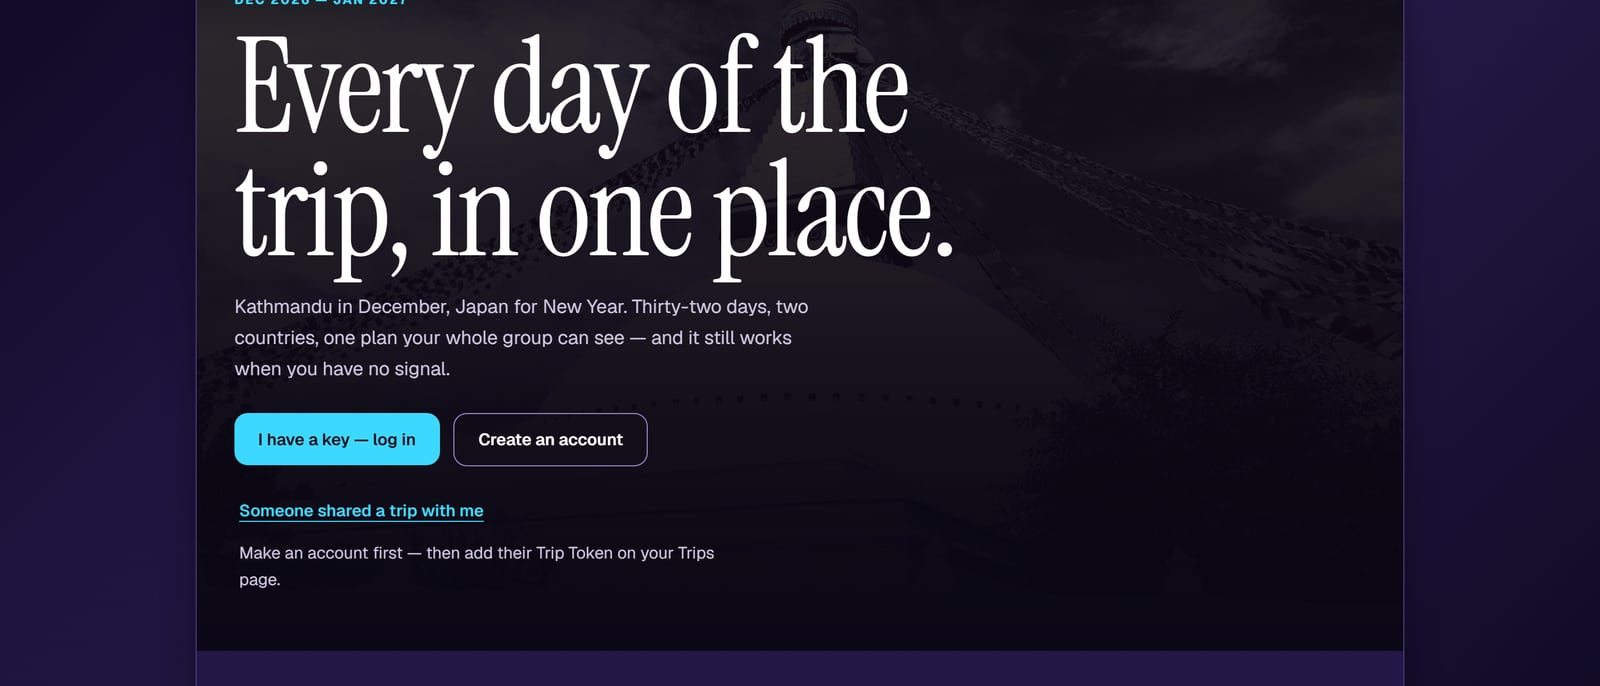
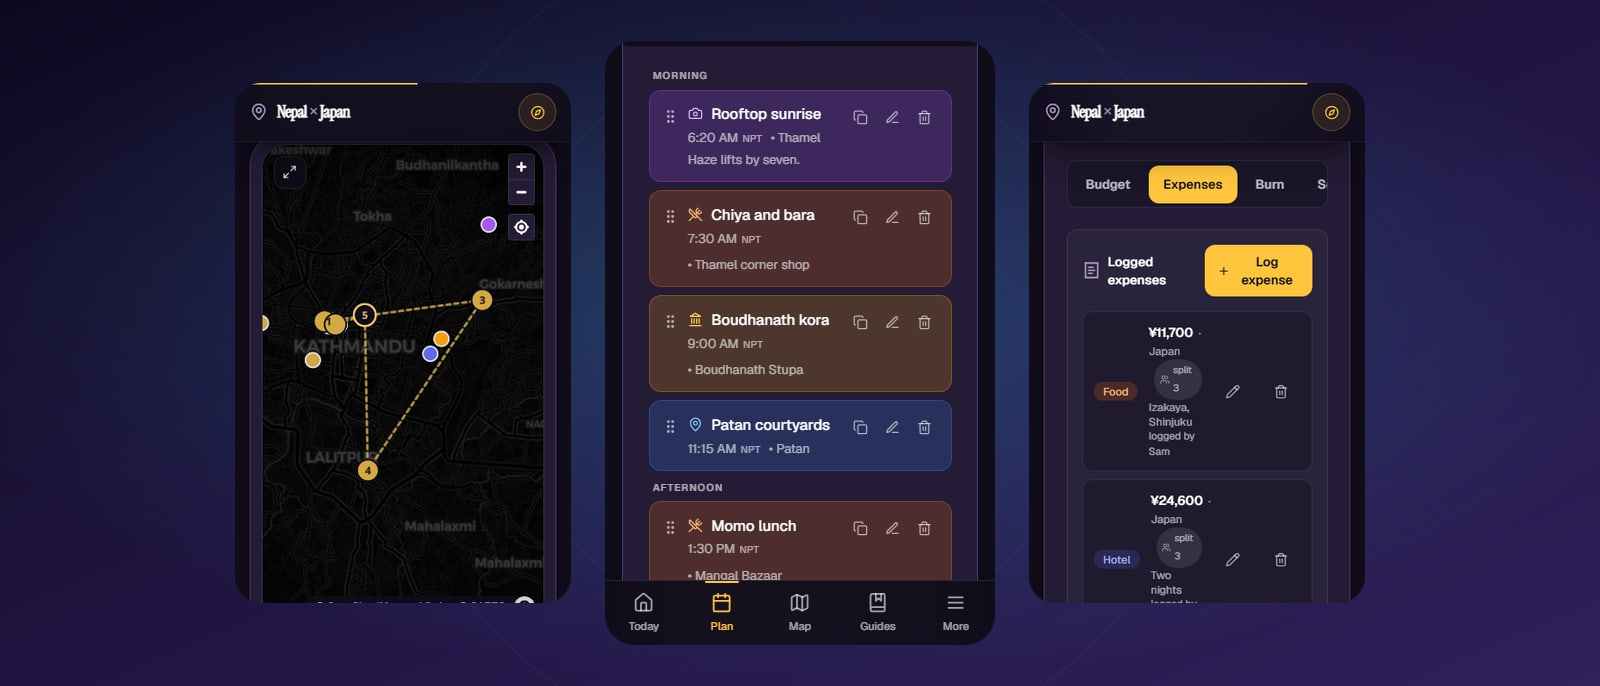
Fix card hover, swap in real app shots, drop em dashes
Reveal animation set transform on .in-view, which outranked the :hover lift on every card. Hover now uses the translate property so the two stop fighting. The featured card also lost its glow to a ::before collision with .glow-card.

Trip planner cover is the actual app now, not the marketing page. Noted that SPOG code is sponsor-owned.

diff --git a/index.html b/index.html
@@ -188,7 +188,7 @@
           <article class="card glow-card" data-reveal>
             <div class="card-icon"><i class="fa-solid fa-robot" aria-hidden="true"></i></div>
             <h3>Test Automation &amp; SDET</h3>
-            <p>Automated test software in LabVIEW, TestStand, and Python for a high-volume radar production program supporting ~10 test stations against FY27 demand of 200+ units &mdash; plus <strong>JUnit, Selenium, Playwright and Vitest</strong> suites on the software side.</p>
+            <p>Automated test software in LabVIEW, TestStand, and Python for a high-volume radar production program supporting ~10 test stations against FY27 demand of 200+ units. On the software side, <strong>JUnit, Selenium, Playwright and Vitest</strong>.</p>
           </article>
           <article class="card glow-card" data-reveal>
             <div class="card-icon"><i class="fa-solid fa-magnifying-glass-chart" aria-hidden="true"></i></div>
@@ -317,13 +317,13 @@
       <div class="container">
         <p class="kicker" data-reveal>Selected Work</p>
         <h2 id="proj-title" class="section-title" data-reveal>Projects</h2>
-        <p class="section-lead" data-reveal>Three builds, written the way I'd talk through them in a review: what was broken, what I built, and how I know it worked.</p>
+        <p class="section-lead" data-reveal>Written the way I'd walk through them in a review: what was broken, what I built, and how I know it worked.</p>
 
         <div class="work-grid">
           <!-- Featured -->
           <article class="work-card work-card--featured glow-card" data-reveal>
             <div class="work-media">
-              <img src="assets/img/trip-planner.jpg" alt="Trip Planner landing page: &quot;Every day of the trip, in one place.&quot;" width="1600" height="686" loading="lazy" />
+              <img src="assets/img/trip-planner.jpg" alt="Trip Planner on mobile: the map view, the day-by-day itinerary, and the shared expense log" width="1600" height="686" loading="lazy" />
             </div>
             <div class="work-body">
               <div class="work-tags">
@@ -335,7 +335,7 @@
               <div class="case-cols">
                 <div class="case-block">
                   <p class="case-label">Problem</p>
-                  <p>A 32-day, two-country trip lived across notes, spreadsheets, screenshots and a maps app. Worse, the one place you actually need all of it &mdash; standing on a street in Kathmandu with no signal &mdash; is the one place none of it works.</p>
+                  <p>Planning a 32-day trip across Nepal and Japan meant a pile of notes, spreadsheets, screenshots and pins in a maps app. None of it works on a phone in Kathmandu with no signal, which is exactly when you need it.</p>
 
                   <p class="case-label">Evidence it works</p>
                   <ul class="evidence-chips">
@@ -350,9 +350,9 @@
                 <div class="case-block">
                   <p class="case-label">Engineering</p>
                   <ul class="case-list">
-                    <li><strong>Offline-first, not offline-ish.</strong> Static-export Next.js PWA with a hand-rolled service worker that precaches the app shell. A new build surfaces as a &ldquo;new version available&rdquo; toast instead of silently reloading the page mid-use.</li>
-                    <li><strong>The device owns the data.</strong> <code>localStorage</code> plus IndexedDB for photos is the source of truth; the Firestore sync layer stays completely inert unless a web config is present, so the app runs with no backend at all.</li>
-                    <li><strong>Releases cannot drift.</strong> CI runs a repo-hygiene job and a version gate that refuses to publish when the current version was already tagged, then deploys the Firestore security rules from the same tree it just built.</li>
+                    <li>Static-export Next.js PWA with a hand-rolled service worker that precaches the app shell, so it installs to a home screen and keeps working with no connection. New builds show a "new version available" toast instead of reloading the page under you.</li>
+                    <li>The device holds the data: <code>localStorage</code> for plans, IndexedDB for photos. The Firestore sync layer stays inert unless a web config is present, so the app runs with no backend at all.</li>
+                    <li>CI gates the release. A hygiene job and a version gate that refuses to publish when the current version was already tagged, plus the Firestore security rules deployed from the same tree the build came from.</li>
                   </ul>
                 </div>
               </div>
@@ -374,17 +374,17 @@
                 <span>React</span><span>TypeScript</span><span>Material UI</span><span>Express</span><span>MongoDB</span><span>Grafana</span>
               </div>
               <h3>Single Pane of Glass</h3>
-              <p class="work-sub">RIT senior capstone &middot; sponsored by LenelS2 (Honeywell) &middot; team of 5 &middot; Aug 2024 &ndash; May 2025</p>
+              <p class="work-sub">RIT senior capstone &middot; sponsored by LenelS2 (Honeywell) &middot; team of 5 &middot; Aug 2024 - May 2025</p>
 
               <div class="case-block">
                 <p class="case-label">Problem</p>
-                <p>Cost, performance and alerting data for AWS, Azure and GCP lived in three separate consoles. The sponsor's internal React dashboard meant to unify them had drifted into something hard to change, with no real access control behind it.</p>
+                <p>Cost, performance and alerting data for AWS, Azure and GCP lived in three separate consoles. The sponsor's internal React dashboard that was supposed to unify them had gotten hard to change, and it had no real access control behind it.</p>
               </div>
               <div class="case-block">
                 <p class="case-label">Engineering</p>
                 <ul class="case-list">
-                  <li>Migrated the front end from JavaScript to TypeScript and standardized on Material UI, so component contracts break at compile time instead of during a sponsor demo.</li>
-                  <li>Built login, user creation and the &ldquo;Persona&rdquo; role-based privilege model in the TypeScript/Express people service (REST + MongoDB).</li>
+                  <li>Migrated the front end from JavaScript to TypeScript and standardized on Material UI, so bad props fail at compile time instead of in a sponsor demo.</li>
+                  <li>Built login, user creation and the "Persona" role-based privilege model in the TypeScript/Express people service (REST + MongoDB).</li>
                   <li>Rendered multi-cloud metrics and logs through Grafana chart components inside the React shell.</li>
                 </ul>
               </div>
@@ -401,6 +401,7 @@
 
               <div class="work-links">
                 <a class="work-link" href="https://the-nimbus-navigators.github.io/senior-project-website/" target="_blank" rel="noopener noreferrer">Project site <i class="fa-solid fa-arrow-up-right-from-square" aria-hidden="true"></i></a>
+                <span class="work-note">Code is private, owned by the sponsor</span>
               </div>
             </div>
           </article>
@@ -440,7 +441,7 @@
 
               <div class="case-block">
                 <p class="case-label">Problem</p>
-                <p>We wanted a trivia game with real accounts and scores that survive a refresh &mdash; not another stateless quiz page that forgets who you are the moment you close the tab.</p>
+                <p>We wanted a trivia game where accounts and scores stick around. Every quiz page we had built before forgot the player the moment the tab closed.</p>
               </div>
               <div class="case-block">
                 <p class="case-label">Engineering</p>

diff --git a/css/styles.css b/css/styles.css
@@ -1,5 +1,5 @@
 /* =========================================================
-   Laxmi Poudel — Portfolio
+   Laxmi Poudel portfolio
    Buildless: design tokens + layout + motion + responsive
    ========================================================= */
 
@@ -292,13 +292,13 @@ h1, h2, h3 { font-family: var(--font-head); line-height: 1.1; font-weight: 700; 
 }
 
 /* glow + cursor-tracked highlight on interactive cards */
-.glow-card { position: relative; transition: transform .25s ease, box-shadow .25s ease, border-color .25s ease; }
+.glow-card { position: relative; transition: translate .25s ease, box-shadow .25s ease, border-color .25s ease; }
 .glow-card::before {
   content: ""; position: absolute; inset: 0; border-radius: inherit; opacity: 0;
   background: radial-gradient(220px circle at var(--mx, 50%) var(--my, 50%), var(--accent-glow), transparent 70%);
   transition: opacity .3s ease; pointer-events: none;
 }
-.glow-card:hover { transform: translateY(-4px); border-color: color-mix(in srgb, var(--accent) 45%, var(--border)); box-shadow: 0 16px 44px rgba(0,0,0,.4); }
+.glow-card:hover { translate: 0 -4px; border-color: color-mix(in srgb, var(--accent) 45%, var(--border)); box-shadow: 0 16px 44px rgba(0,0,0,.4); }
 .glow-card:hover::before { opacity: 1; }
 
 /* ---------- Skills ---------- */
@@ -352,9 +352,9 @@ h1, h2, h3 { font-family: var(--font-head); line-height: 1.1; font-weight: 700; 
 .work-card {
   background: var(--bg-elev); border: 1px solid var(--border); border-radius: var(--radius);
   overflow: hidden; display: flex; flex-direction: column;
-  transition: transform .25s ease, box-shadow .25s ease, border-color .25s ease;
+  transition: translate .25s ease, box-shadow .25s ease, border-color .25s ease;
 }
-.work-card:hover { transform: translateY(-6px); border-color: color-mix(in srgb, var(--accent) 45%, var(--border)); box-shadow: 0 18px 48px rgba(0,0,0,.42); }
+.work-card:hover { translate: 0 -6px; border-color: color-mix(in srgb, var(--accent) 45%, var(--border)); box-shadow: 0 18px 48px rgba(0,0,0,.42); }
 .work-media { aspect-ratio: 16 / 10; overflow: hidden; border-bottom: 1px solid var(--border); }
 .work-media img { width: 100%; height: 100%; object-fit: cover; transition: transform .4s ease; }
 .work-card:hover .work-media img { transform: scale(1.06); }
@@ -372,9 +372,10 @@ h1, h2, h3 { font-family: var(--font-head); line-height: 1.1; font-weight: 700; 
 .section-lead { color: var(--text-muted); max-width: 64ch; margin: calc(var(--space-5) * -1 + 4px) 0 var(--space-5); }
 
 .work-card--featured { grid-column: 1 / -1; position: relative; border-color: color-mix(in srgb, var(--accent) 32%, var(--border)); }
-.work-card--featured::before {
+/* ::after because .glow-card already owns ::before for the cursor glow */
+.work-card--featured::after {
   content: ""; position: absolute; inset: 0 0 auto 0; height: 3px;
-  background: var(--gradient); z-index: 2;
+  background: var(--gradient); z-index: 2; pointer-events: none;
 }
 .work-card--featured .work-media { aspect-ratio: 21 / 9; }
 .work-card--featured .work-body { gap: 12px; }

diff --git a/js/main.js b/js/main.js
@@ -1,5 +1,5 @@
 /* =========================================================
-   Laxmi Poudel — Portfolio interactions (vanilla JS, no deps)
+   Laxmi Poudel portfolio interactions (vanilla JS, no deps)
    ========================================================= */
 (function () {
   "use strict";
@@ -200,7 +200,7 @@
         })
         .catch((error) => {
           console.error("Error!", error.message);
-          if (msg) { msg.className = "error"; msg.textContent = "Something went wrong — email me directly at laxmipoudel311@gmail.com."; }
+          if (msg) { msg.className = "error"; msg.textContent = "Something went wrong. Email me directly at laxmipoudel311@gmail.com."; }
         })
         .finally(() => {
           if (submitBtn) { submitBtn.disabled = false; submitBtn.textContent = original; }
